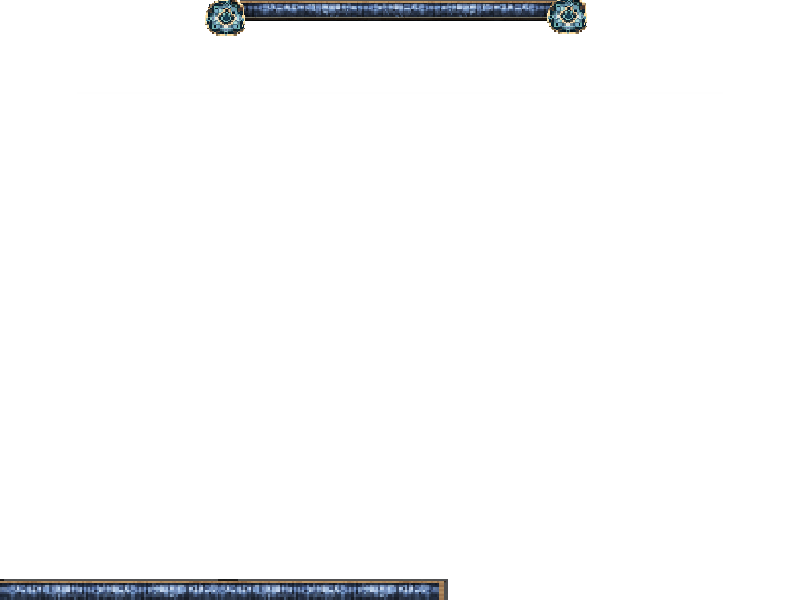
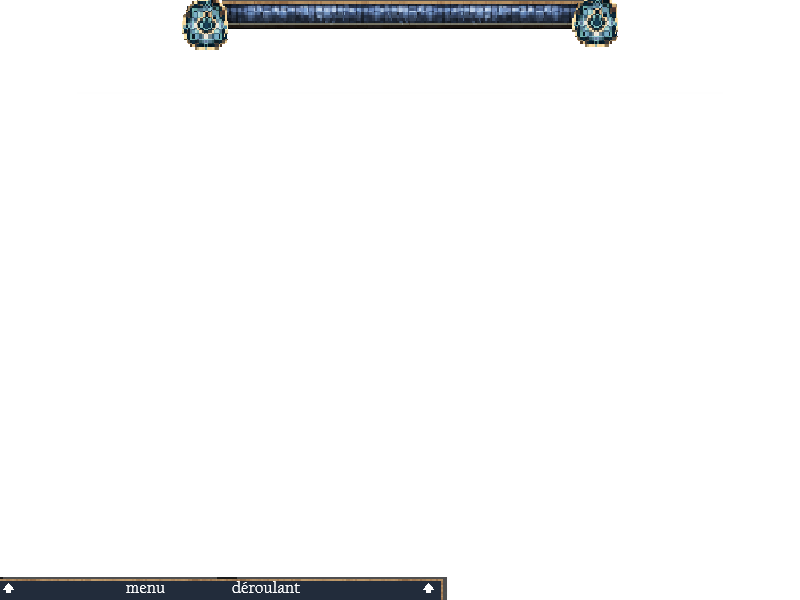
add overlay, fix bug

Changed region(s): [[0.2188, 0.0, 0.7812, 0.09], [0.0, 0.96, 0.5625, 1.0]]

diff --git a/frontend/gui.py b/frontend/gui.py
@@ -228,6 +228,8 @@ class GUI(threading.Thread):
         self.show_resources = False
         self.show_units = False
 
+        self.codedetriche = False
+
         self.mouse_held = None
            
         self.PLAYER_COLORS = {
@@ -249,6 +251,7 @@ class GUI(threading.Thread):
 
         self.last_mini_map_update = time.time()
         self.mini_map_update_interval = 50
+        self.showminimap = True
         self.mini_map_surface = None
         self.show_global_overlay = True
 
@@ -305,6 +308,7 @@ class GUI(threading.Thread):
         self.mini_map_back = self.load_image(self.IMG_HUD / "MiniMAP.png")
         self.back = self.load_image(self.IMG_HUD / "Hud2.png")
         self.background = self.load_image(self.IMG_HUD / "Overlay.png")
+        self.background1 = self.load_image(self.IMG_HUD / "Overlay1.png")
         self.victory_image = self.load_image(self.IMG_PATH / "victory.png")
 
         self.villager_images = {
@@ -865,6 +869,10 @@ class GUI(threading.Thread):
                     self.show_resources = not self.show_resources
                 elif event.key == pygame.K_F2:
                     self.show_units = not self.show_units
+                elif event.key == pygame.K_F3:
+                    self.showminimap = not self.showminimap
+                elif event.key == pygame.K_F4:
+                    self.codedetriche = not self.codedetriche
 
             # Gestion des événements de la souris
             if event.type == pygame.MOUSEBUTTONDOWN and event.button == 1:  # Bouton gauche
@@ -892,11 +900,12 @@ class GUI(threading.Thread):
         current_time = time.time()
         if current_time - self.last_fps_update >= self.fps_refresh_interval:
             fps = int(self.clock.get_fps())
-            self.fps_text = self.font.render(f'FPS: {fps}', True, (255, 255, 255))
+            small_font = pygame.font.Font(None, 25)
+            self.fps_text = small_font.render(f'{fps}', True, (255, 255, 255))
             self.last_fps_update = current_time
 
         if self.fps_text:
-            fps_rect = self.fps_text.get_rect(topright=(self.WINDOW_WIDTH - 10, 10))
+            fps_rect = self.fps_text.get_rect(center=(self.WINDOW_WIDTH //2, 15))
             self.screen.blit(self.fps_text, fps_rect)
 
     def pre_render_map(self):
@@ -1021,16 +1030,17 @@ class GUI(threading.Thread):
             game_data.map.pre_post_entities[entity_type].pop(entity_index)
             print(f"Removing entity at index {entity_index} of type {entity_type}")'''
 
-    def draw_health_bar(self, screen_x, screen_y, hp, max_hp, img_height, width=30, height=2):
+    def draw_health_bar(self, screen_x, screen_y, hp, max_hp, width=30, height=4):
         # Calcul du pourcentage de vie restant
         health_percentage = hp / max_hp
         health_width = int(width * health_percentage)
         # Couleur de la barre de vie
         color = (0, 255, 0) if health_percentage > 0.5 else (255, 165, 0) if health_percentage > 0.25 else (255, 0, 0)
         # Positionnement de la barre au-dessus de l'unité en tenant compte de la hauteur de l'image
-        bar_x = screen_x - width // 2
-        bar_y = screen_y - img_height   # 10 pixels au-dessus de l'unité
+        bar_x = screen_x - width // 2 - 5
+        bar_y = screen_y 
         # Dessiner le fond et la barre de vie
+        pygame.draw.rect(self.screen, (77, 164, 128), [bar_x - 2, bar_y - 2, width + 4, height + 4])
         pygame.draw.rect(self.screen, (255, 255, 255), [bar_x, bar_y, width, height])
         pygame.draw.rect(self.screen, color, [bar_x, bar_y, health_width, height])
 
@@ -1140,13 +1150,13 @@ class GUI(threading.Thread):
                         image = images[obj.current_frame % len(images)]
                         
                 offset_x, offset_y = get_unit_offsets(unit_type,state, direction)
-                screen_x = x - self.camera.offset_x + offset_x
-                screen_y = y - self.camera.offset_y + offset_y
+                screen_x1 = x - self.camera.offset_x + offset_x
+                screen_y2 = y - self.camera.offset_y + offset_y
                 if image:
-                    self.screen.blit(image, (screen_x, screen_y))
+                    self.screen.blit(image, (screen_x1, screen_y2))
 
-                    if obj.is_attacked_by:
-                        self.draw_health_bar(screen_x, screen_y, obj.hp, obj.max_hp, image.get_height())
+                if obj.is_attacked_by:
+                    self.draw_health_bar(screen_x, screen_y, obj.hp, obj.max_hp)
 
           
             elif entity_type == "building":
@@ -1165,8 +1175,8 @@ class GUI(threading.Thread):
                         adjusted_y -= (self.TILE_HEIGHT // 6 ) 
 
                     self.screen.blit(image, (adjusted_x, adjusted_y))
-                    if hasattr(obj, 'is_attacked_by') and obj.is_attacked_by:  # Afficher la barre de vie uniquement si l'unité est attaquée
-                        self.draw_health_bar(screen_x, screen_y, obj.hp, obj.max_hp, image.get_height())
+                    if obj.is_attacked:  # Afficher la barre de vie uniquement si l'unité est attaquée
+                        self.draw_health_bar(screen_x, screen_y, obj.hp, obj.max_hp,width=50, height=4)
             
             elif entity_type == "rubble":
                 image = self.building_images["Rubble"]
@@ -1177,14 +1187,17 @@ class GUI(threading.Thread):
                 self.screen.blit(resized_image, (adjusted_x, adjusted_y))
 
         if self.show_global_overlay:
-            overlay_surface = self.background
+            if self.codedetriche : 
+                overlay_surface = self.background1
+            else :    
+                overlay_surface = self.background
             self.screen.blit(overlay_surface, (0, 0))
 
 
     def initialize_pygame(self):
         pygame.init()
         self.screen = pygame.display.set_mode((self.WINDOW_WIDTH, self.WINDOW_HEIGHT))
-        pygame.display.set_caption("Age Of Empire")
+        pygame.display.set_caption("Gui")
         self.clock = pygame.time.Clock()
         self.font = pygame.font.Font(None, 36)
         self.setup_paths()
@@ -1202,8 +1215,8 @@ class GUI(threading.Thread):
 
         self.screen.fill((0, 0, 0))
         self.render_isometric_map()
-        self.update_and_draw_mini_map()
-            # Draw resources if enabled
+        if self.showminimap :
+            self.update_and_draw_mini_map()
         if self.show_resources:
             self.display_player_resources()
         if self.show_units:
@@ -1484,5 +1497,5 @@ class GUI(threading.Thread):
         text_rect = text_surface.get_rect(center=(self.WINDOW_WIDTH // 2, self.WINDOW_HEIGHT // 2))
         self.screen.blit(text_surface, text_rect)
         pygame.display.flip()
-        time.sleep(5)  # Wait for 5 seconds before closing
+        time.sleep(10)  # Wait for 5 seconds before closing
         self.running = False

diff --git a/backend/Units.py b/backend/Units.py
@@ -119,7 +119,7 @@ class Unit:
     # Check if the player has enough resources
         for resource_type, amount in unit_to_train.cost.items():
             if player.owned_resources.get(resource_type, 0) < amount and unit_to_train not in player.training_units:
-                debug_print(f"Not enough {resource_type} to train {unit_to_train.name}.", 'Yellow')
+                debug_print(f"Not enough {resource_type} to train {unit_to_train}.", 'Yellow')
                 return
         if isinstance(unit_to_train, type):
             if unit_to_train == Horseman:
